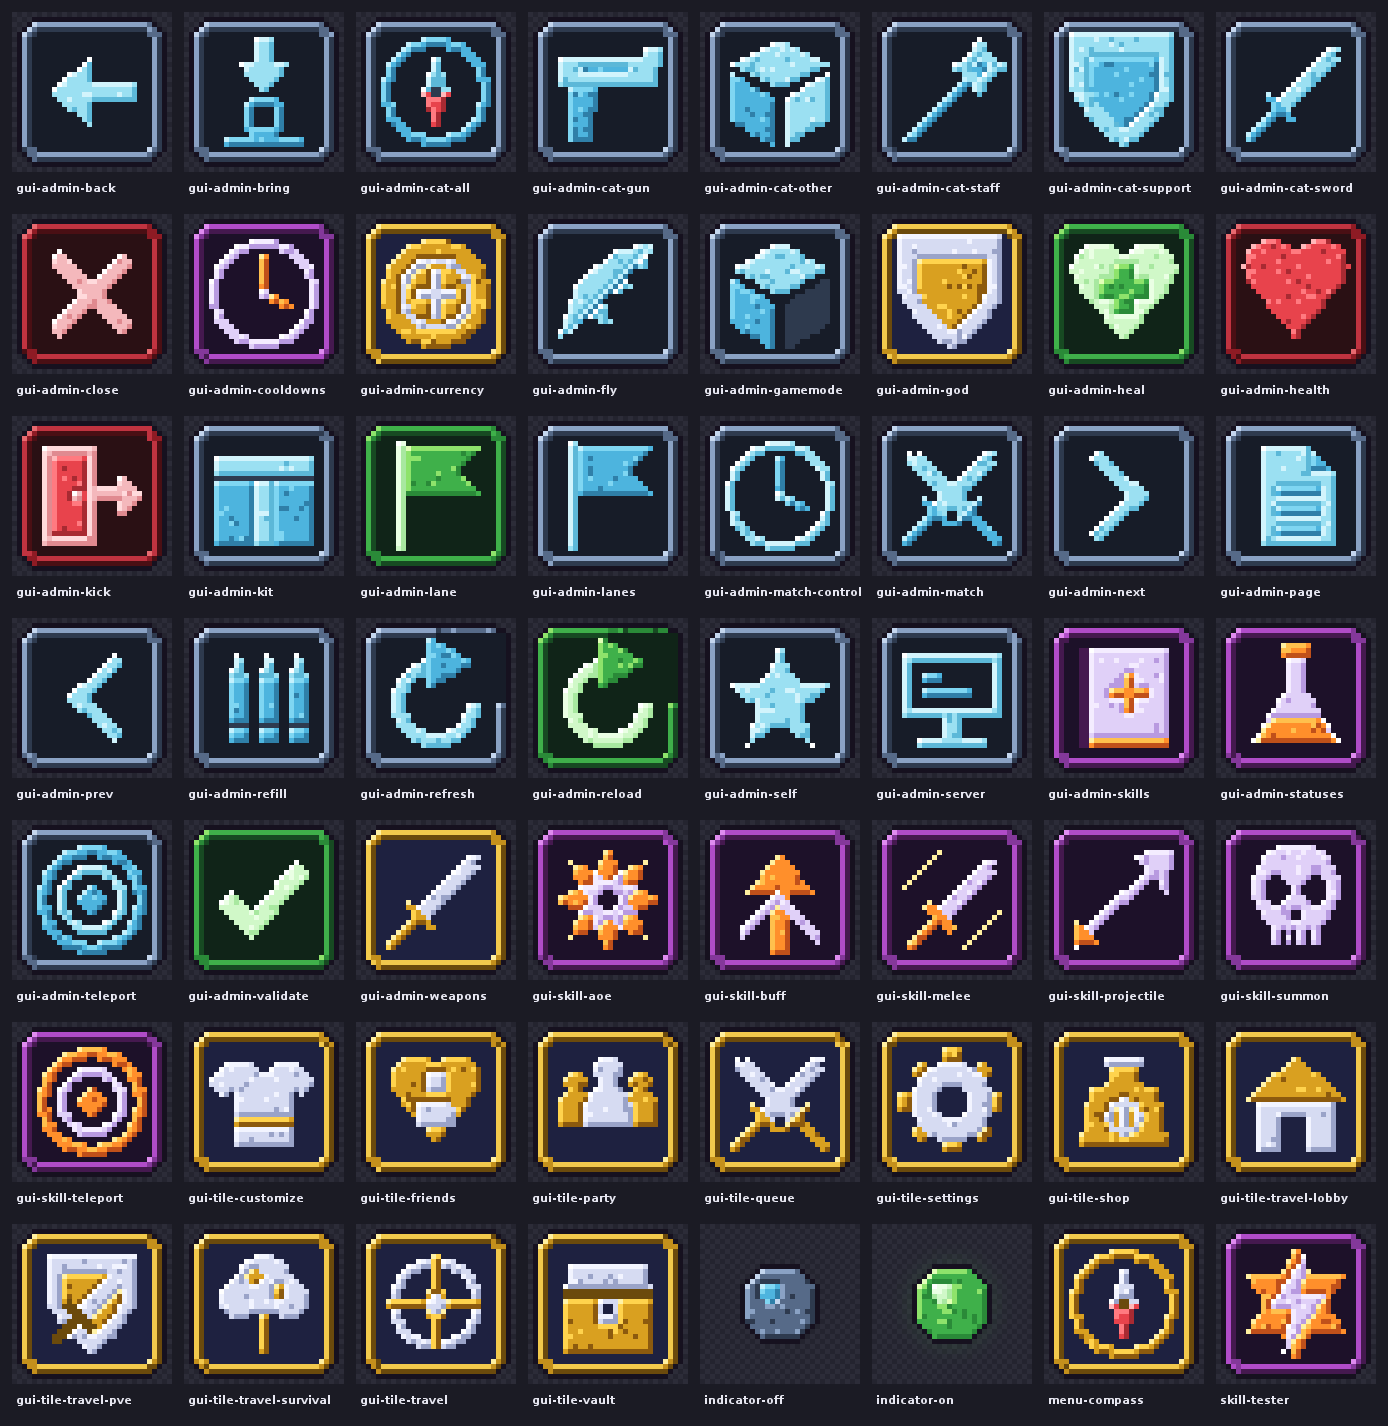
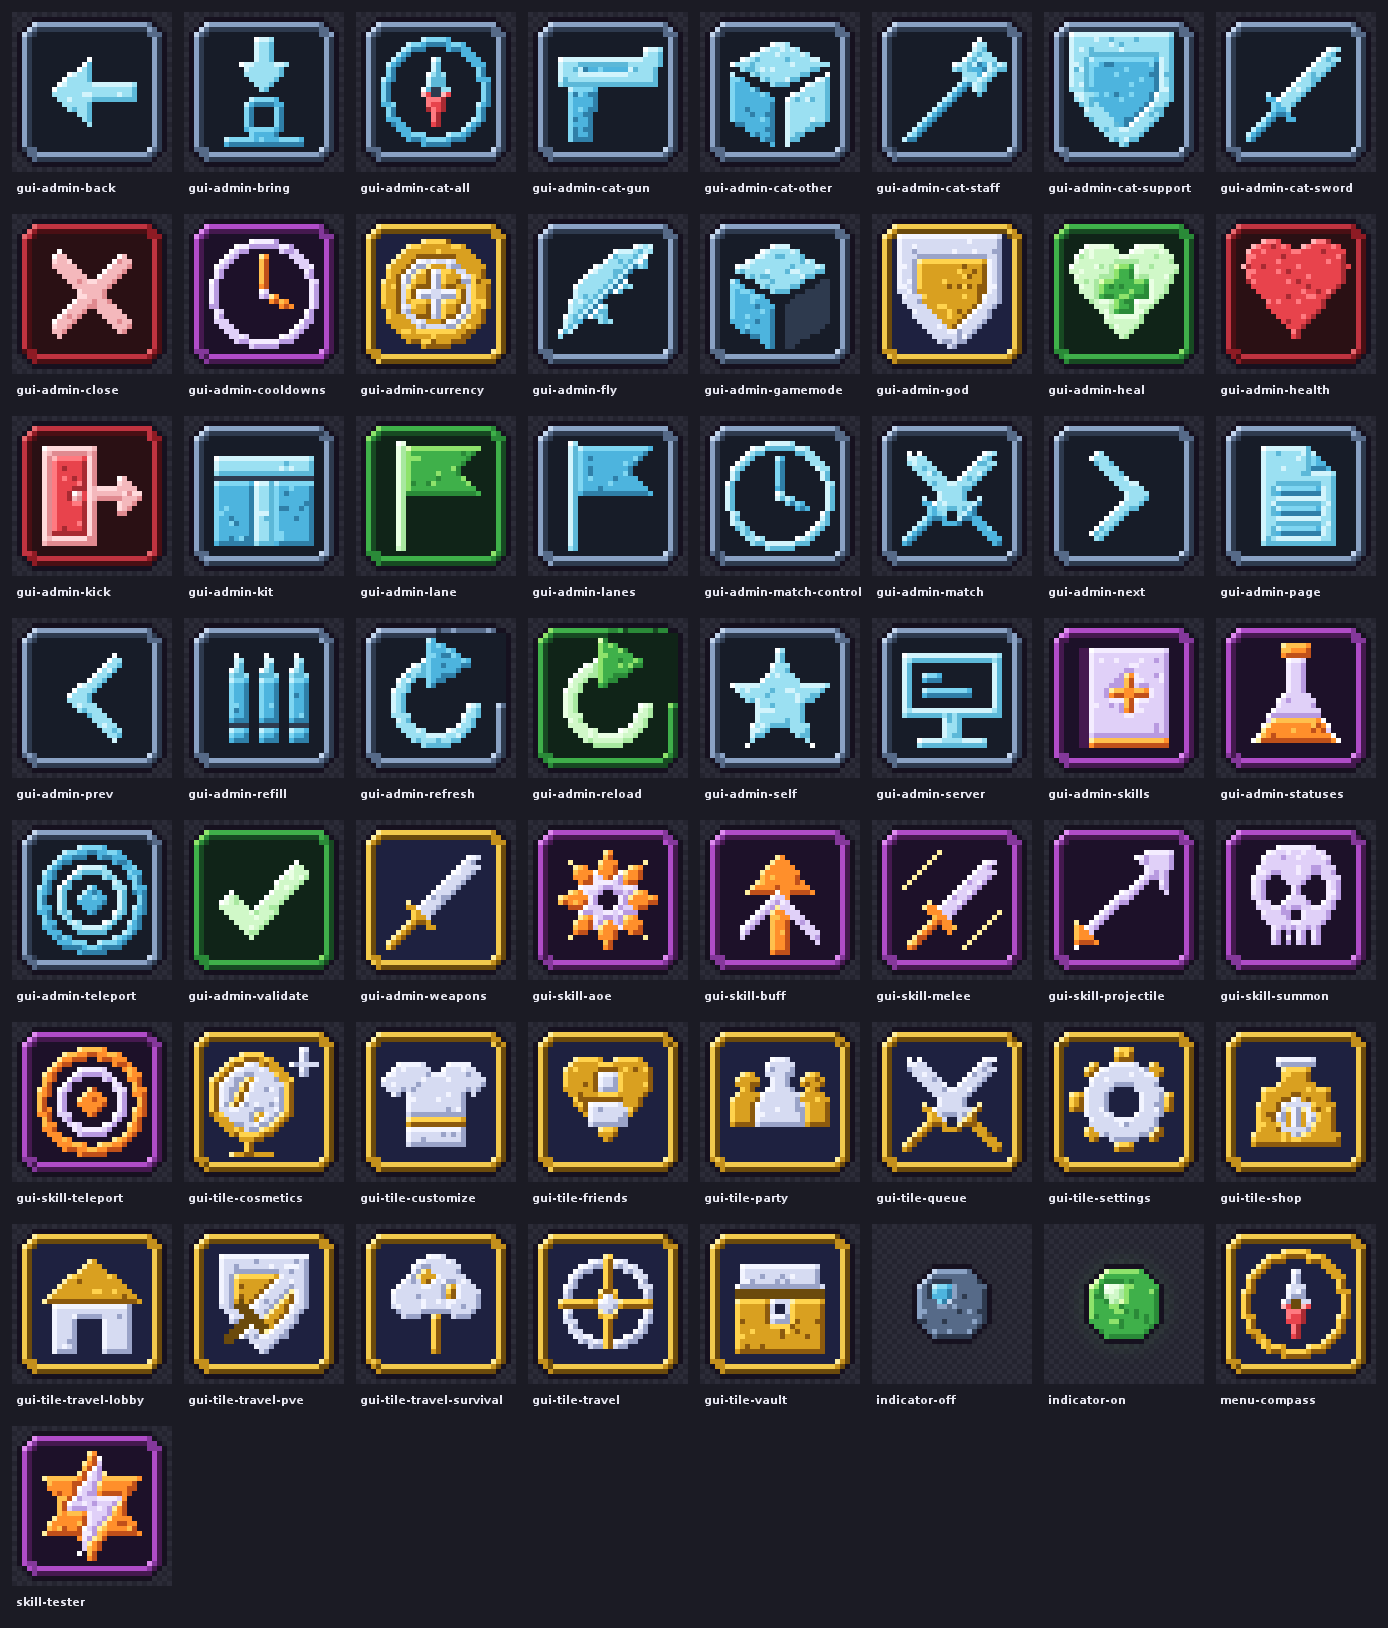
feat(item-art): mirror glyph for the Cosmetics main-menu tile; drop it from the vanilla-look allowlist

diff --git a/tools/item-art/src/main/kotlin/com/astarworks/astera/itemart/Icons.kt b/tools/item-art/src/main/kotlin/com/astarworks/astera/itemart/Icons.kt
@@ -40,7 +40,7 @@ internal enum class Glyph {
     SHOP, QUEUE, CUSTOMIZE, PARTY, FRIENDS, SETTINGS, TRAVEL, HOME, ARENA, SAPLING, VAULT, COMPASS,
     ORB_ON, ORB_OFF, AOE, SLASH, ARROW_SHOT, BUFF, SKULL, PORTAL,
     BACK, PREV, NEXT, PAGE, CLOSE, REFRESH, CHECK, BRING, KICK, KIT, FLAG, SWORDS, CLOCK, WING, CUBE, SHIELD,
-    HEART, HEAL, SERVER, BOOK, FLASK, SWORD, GUN, STAFF, BOX, STAR, COIN, BOLT, AMMO,
+    HEART, HEAL, SERVER, BOOK, FLASK, SWORD, GUN, STAFF, BOX, STAR, COIN, BOLT, AMMO, MIRROR,
 }
 
 /** Icon design of one item id. */
@@ -62,6 +62,7 @@ internal object Icons {
         t("gui-tile-travel-pve", Glyph.ARENA)
         t("gui-tile-travel-survival", Glyph.SAPLING)
         t("gui-tile-vault", Glyph.VAULT)
+        t("gui-tile-cosmetics", Glyph.MIRROR)
         // indicators
         put("indicator-on", IconSpec(Glyph.ORB_ON, Theme.GOOD, plaque = false))
         put("indicator-off", IconSpec(Glyph.ORB_OFF, Theme.ADMIN, plaque = false))
@@ -285,6 +286,18 @@ private class IconCanvas(val s: Sprite, val spec: IconSpec) {
                 s.rect(7.0, 13.5, 25.0, 15.5, dark)
                 s.rect(14.0, 15.0, 18.0, 20.5, ink)
                 s.disc(16.0, 17.2, 1.0, fill)
+            }
+            Glyph.MIRROR -> {
+                // standing oval mirror: accent frame, ink glass with two glints, stand and a sparkle
+                s.disc(13.5, 15.0, 8.8, acc)
+                s.disc(13.5, 15.0, 6.6, ink)
+                s.line(P(10.0, 17.0), P(13.0, 11.0), 1.4, acc)
+                s.line(P(14.5, 19.5), P(15.5, 17.5), 1.0, acc)
+                s.rect(12.5, 23.5, 14.5, 26.5, acc)
+                s.rect(9.0, 26.0, 18.0, 27.5, acc)
+                s.line(P(24.0, 5.5), P(24.0, 11.5), 1.6, ink)
+                s.line(P(21.0, 8.5), P(27.0, 8.5), 1.6, ink)
+                s.spark(24, 8, th.glow)
             }
             Glyph.COMPASS -> {
                 ring(16.0, 16.0, 11.0, 2.2, acc)

diff --git a/tools/game-sim/src/test/kotlin/com/astarworks/astera/gamesim/ItemIconParityScenarioTest.kt b/tools/game-sim/src/test/kotlin/com/astarworks/astera/gamesim/ItemIconParityScenarioTest.kt
@@ -31,7 +31,7 @@ class ItemIconParityScenarioTest {
         // UI-01..05 tiles (docs/game-design/access-map.md): vanilla look until item-art draws their glyphs.
         "gui-tile-achievements", "gui-tile-quests", "gui-tile-help", "gui-tile-language", "gui-tile-volume-music",
         "gui-tile-volume-sound", "gui-tile-volume-voice", "gui-tile-controls", "gui-tile-quickcast",
-        "gui-tile-particles", "gui-tile-double-jump", "gui-tile-privacy", "gui-tile-back", "gui-tile-cosmetics",
+        "gui-tile-particles", "gui-tile-double-jump", "gui-tile-privacy", "gui-tile-back",
     )
 
     @Test
